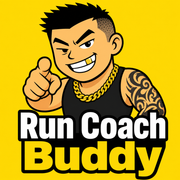
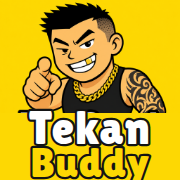
Rename the app to Tekan Buddy
User-facing name only: page titles and link previews, on-screen headings
and copy, the web manifest, the iOS display name and permission prompts,
the Capacitor app name, the studio and booth headings, the mic-check
sentence, and the clone naming prefix. The mascot icon keeps its art with
the wordmark re-lettered, and the three studio preview cards are
regenerated. Identifiers are untouched on purpose: bundle id, the
sign-in deep-link scheme, storage keys, blob paths, cookie names and the
package name all stay as they were so nothing signed-in or installed
breaks.

Claude-Session: https://claude.ai/code/session_01V57X7eccGvNiejaR4asREp

diff --git a/app/record/[token]/page.tsx b/app/record/[token]/page.tsx
@@ -40,7 +40,7 @@ const CLIP_PEAK = 0.99;
 // Calibration targets, from ElevenLabs' PVC guidance: speech around
 // −23…−18 dB RMS with true peaks below −3 dB, over a quiet noise floor.
 const CAL_TEXT =
-  "This is my microphone check for the Run Buddy voice session. I am speaking at the same " +
+  "This is my microphone check for the Tekan Buddy voice session. I am speaking at the same " +
   "volume and energy I will use for every recording today. One, two, three, four, five. " +
   "The quick brown fox jumps over the lazy dog, and the race starts at six in the morning " +
   "by the sea. If my levels look good, I will keep everything exactly like this.";
@@ -278,7 +278,7 @@ export default function RecordPage({ params }: { params: Promise<{ token: string
     };
     return (
       <div className="booth">
-        <h1>{view.cloneOnly ? "Voice Clone Session" : "Run Buddy Voice Session"}</h1>
+        <h1>{view.cloneOnly ? "Voice Clone Session" : "Tekan Buddy Voice Session"}</h1>
         <p className="booth-sub">
           {view.cloneOnly ? (
             <>Recording your natural voice · {view.label}</>

diff --git a/components/SetupScreen.tsx b/components/SetupScreen.tsx
@@ -165,10 +165,10 @@ export default function SetupScreen({
 
   return (
     <div className="fade-in">
-      <h1 className="large-title">Run Buddy</h1>
+      <h1 className="large-title">Tekan Buddy</h1>
       <p className="subtitle">Pick your trainer. Press start. Get talked at.</p>
 
-      <div className="section-header">Your Run Buddy</div>
+      <div className="section-header">Your Tekan Buddy</div>
       {PERSONA_LIST.map((p) => (
         <button
           key={p.id}
@@ -266,7 +266,7 @@ export default function SetupScreen({
             </div>
           );
           // Spotify connected: the transport replaces the open-the-app card —
-          // start the playlist and set the volume without leaving Run Buddy.
+          // start the playlist and set the volume without leaving Tekan Buddy.
           // Everyone else (guests, no link, other apps) sees the card as before.
           return music === "spotify" ? (
             <SpotifyTransport firstPollMs={400} intervalMs={30_000} openLink fallback={openCard} />

diff --git a/app/studio/page.tsx b/app/studio/page.tsx
@@ -222,7 +222,7 @@ export default function StudioPage() {
   if (!me.user || me.isAdmin === false) {
     return (
       <div className="studio">
-        <h1>Run Buddy Studio</h1>
+        <h1>Tekan Buddy Studio</h1>
         <p>
           Admin sign-in required.{" "}
           <a href="/api/auth/login">Sign in with Google</a> (then come back to /studio).
@@ -233,7 +233,7 @@ export default function StudioPage() {
   if (!pinOk) {
     return (
       <div className="studio">
-        <h1>Run Buddy Studio</h1>
+        <h1>Tekan Buddy Studio</h1>
         <p>Enter the admin PIN.</p>
         <form
           onSubmit={(e) => {
@@ -578,7 +578,7 @@ export default function StudioPage() {
 
   return (
     <div className="studio">
-      <h1>Run Buddy Studio</h1>
+      <h1>Tekan Buddy Studio</h1>
       <p className="studio-sub">Voice sessions, take review, library promotion, clone pipeline.</p>
       {note && <div className="studio-note">{note}</div>}
       {busy && <div className="studio-note">⏳ {busy}</div>}

diff --git a/components/RunScreen.tsx b/components/RunScreen.tsx
@@ -703,7 +703,7 @@ export default function RunScreen({
               </>
             ) : (
               <>
-                <strong>Don&apos;t press the side button.</strong> Run Buddy locks the screen
+                <strong>Don&apos;t press the side button.</strong> Tekan Buddy locks the screen
                 for you — it&apos;s already locked. If you lock the phone yourself, iOS mutes
                 your buddy until you unlock it again.
               </>
@@ -731,7 +731,7 @@ export default function RunScreen({
                 </>
               ) : (
                 <>
-                  <strong>Don&apos;t press the side button.</strong> Run Buddy locks the screen
+                  <strong>Don&apos;t press the side button.</strong> Tekan Buddy locks the screen
                   for you — it&apos;s already locked. If you lock the phone yourself, iOS mutes
                   your buddy until you unlock it again.
                 </>

diff --git a/app/api/studio/pvc/route.ts b/app/api/studio/pvc/route.ts
@@ -48,7 +48,7 @@ export async function POST(req: NextRequest) {
       }
       case "create": {
         const voiceId = await pvcCreate(
-          `RunBuddy ${PERSONAS[session.persona].shortName} — ${session.label}`
+          `TekanBuddy ${PERSONAS[session.persona].shortName} — ${session.label}`
         );
         session.pvc = { voiceId, state: "created", attempts: 0 };
         await writeSession(session);
@@ -88,7 +88,7 @@ export async function POST(req: NextRequest) {
         const bank = PHRASE_LIBRARY[session.persona];
         const line =
           bank[Math.floor(Math.random() * bank.length)]?.text ??
-          "Oi, steady lah! This is your new voice speaking. Run Buddy, checking in.";
+          "Oi, steady lah! This is your new voice speaking. Tekan Buddy, checking in.";
         const audio = await ttsPreview(session.pvc.voiceId, line);
         return NextResponse.json({
           session,

diff --git a/app/record/[token]/layout.tsx b/app/record/[token]/layout.tsx
@@ -4,10 +4,10 @@ import type { Metadata } from "next";
 // the actor's first impression of the studio starts in the chat preview.
 
 export const metadata: Metadata = {
-  title: "Voice Session — Run Buddy Studio",
+  title: "Voice Session — Tekan Buddy Studio",
   description: "Your recording booth is ready. Progress saves as you go — come back anytime with this link.",
   openGraph: {
-    title: "Voice Session — Run Buddy Studio",
+    title: "Voice Session — Tekan Buddy Studio",
     description: "Your recording booth is ready. Progress saves as you go — come back anytime with this link.",
     images: [{ url: "/og-studio.jpg", width: 1200, height: 630 }],
   },

diff --git a/app/audition/[token]/layout.tsx b/app/audition/[token]/layout.tsx
@@ -5,10 +5,10 @@ import type { Metadata } from "next";
 // image URL absolute.
 
 export const metadata: Metadata = {
-  title: "Voice Audition — Run Buddy Studio",
+  title: "Voice Audition — Tekan Buddy Studio",
   description: "One line, in character, full commitment. Record your audition right in the browser.",
   openGraph: {
-    title: "Voice Audition — Run Buddy Studio",
+    title: "Voice Audition — Tekan Buddy Studio",
     description: "One line, in character, full commitment. Record your audition right in the browser.",
     images: [{ url: "/og-audition.jpg", width: 1200, height: 630 }],
   },

diff --git a/app/edit/[token]/layout.tsx b/app/edit/[token]/layout.tsx
@@ -4,10 +4,10 @@ import type { Metadata } from "next";
 // same treatment as booth and audition links.
 
 export const metadata: Metadata = {
-  title: "Phrase Editing — Run Buddy Studio",
+  title: "Phrase Editing — Tekan Buddy Studio",
   description: "Polish the lines, keep the voice. One phrase per page, saved as you go.",
   openGraph: {
-    title: "Phrase Editing — Run Buddy Studio",
+    title: "Phrase Editing — Tekan Buddy Studio",
     description: "Polish the lines, keep the voice. One phrase per page, saved as you go.",
     images: [{ url: "/og-edit.jpg", width: 1200, height: 630 }],
   },

diff --git a/app/api/spotify/control/route.ts b/app/api/spotify/control/route.ts
@@ -7,7 +7,7 @@ export const dynamic = "force-dynamic";
 const ACTIONS: SpotifyControlAction[] = ["play", "pause", "next", "previous"];
 
 // The run screen's transport buttons: drive the runner's own Spotify app
-// through the Web API, so the phone can stay in Run Buddy (or in a sleeve).
+// through the Web API, so the phone can stay in Tekan Buddy (or in a sleeve).
 export async function POST(req: NextRequest) {
   const session = readSession(req);
   if (!session) return NextResponse.json({ ok: false, reason: "notConnected" });

diff --git a/app/layout.tsx b/app/layout.tsx
@@ -36,13 +36,13 @@ const jetbrains = JetBrains_Mono({
 
 export const metadata: Metadata = {
   metadataBase: new URL("https://run.marktan.ai"),
-  title: "Run Buddy",
+  title: "Tekan Buddy",
   description: "Your AI running trainer — pick a persona, press start, get coached.",
   manifest: "/manifest.json",
   appleWebApp: {
     capable: true,
     statusBarStyle: "black-translucent",
-    title: "Run Buddy",
+    title: "Tekan Buddy",
   },
   icons: {
     icon: [

diff --git a/lib/server/studioClone.ts b/lib/server/studioClone.ts
@@ -56,7 +56,7 @@ export async function instantCloneFromSession(session: StudioSession): Promise<s
   const voiceId = await ivcCreate(
     session.cloneOnly
       ? `${session.label} (clone)`
-      : `RunBuddy ${PERSONAS[session.persona].shortName} — ${session.label}`,
+      : `TekanBuddy ${PERSONAS[session.persona].shortName} — ${session.label}`,
     picked
   );
   session.pvc = { voiceId, state: "ready" };

diff --git a/components/LandingScreen.tsx b/components/LandingScreen.tsx
@@ -15,7 +15,7 @@ export default function LandingScreen({ onGuest }: Props) {
     <div className="fade-in landing">
       <div className="landing-hero">
         <div className="landing-emoji">🏃</div>
-        <h1 className="large-title">Run Buddy</h1>
+        <h1 className="large-title">Tekan Buddy</h1>
         <p className="subtitle">Pick your trainer. Press start. Get talked at.</p>
       </div>
 
